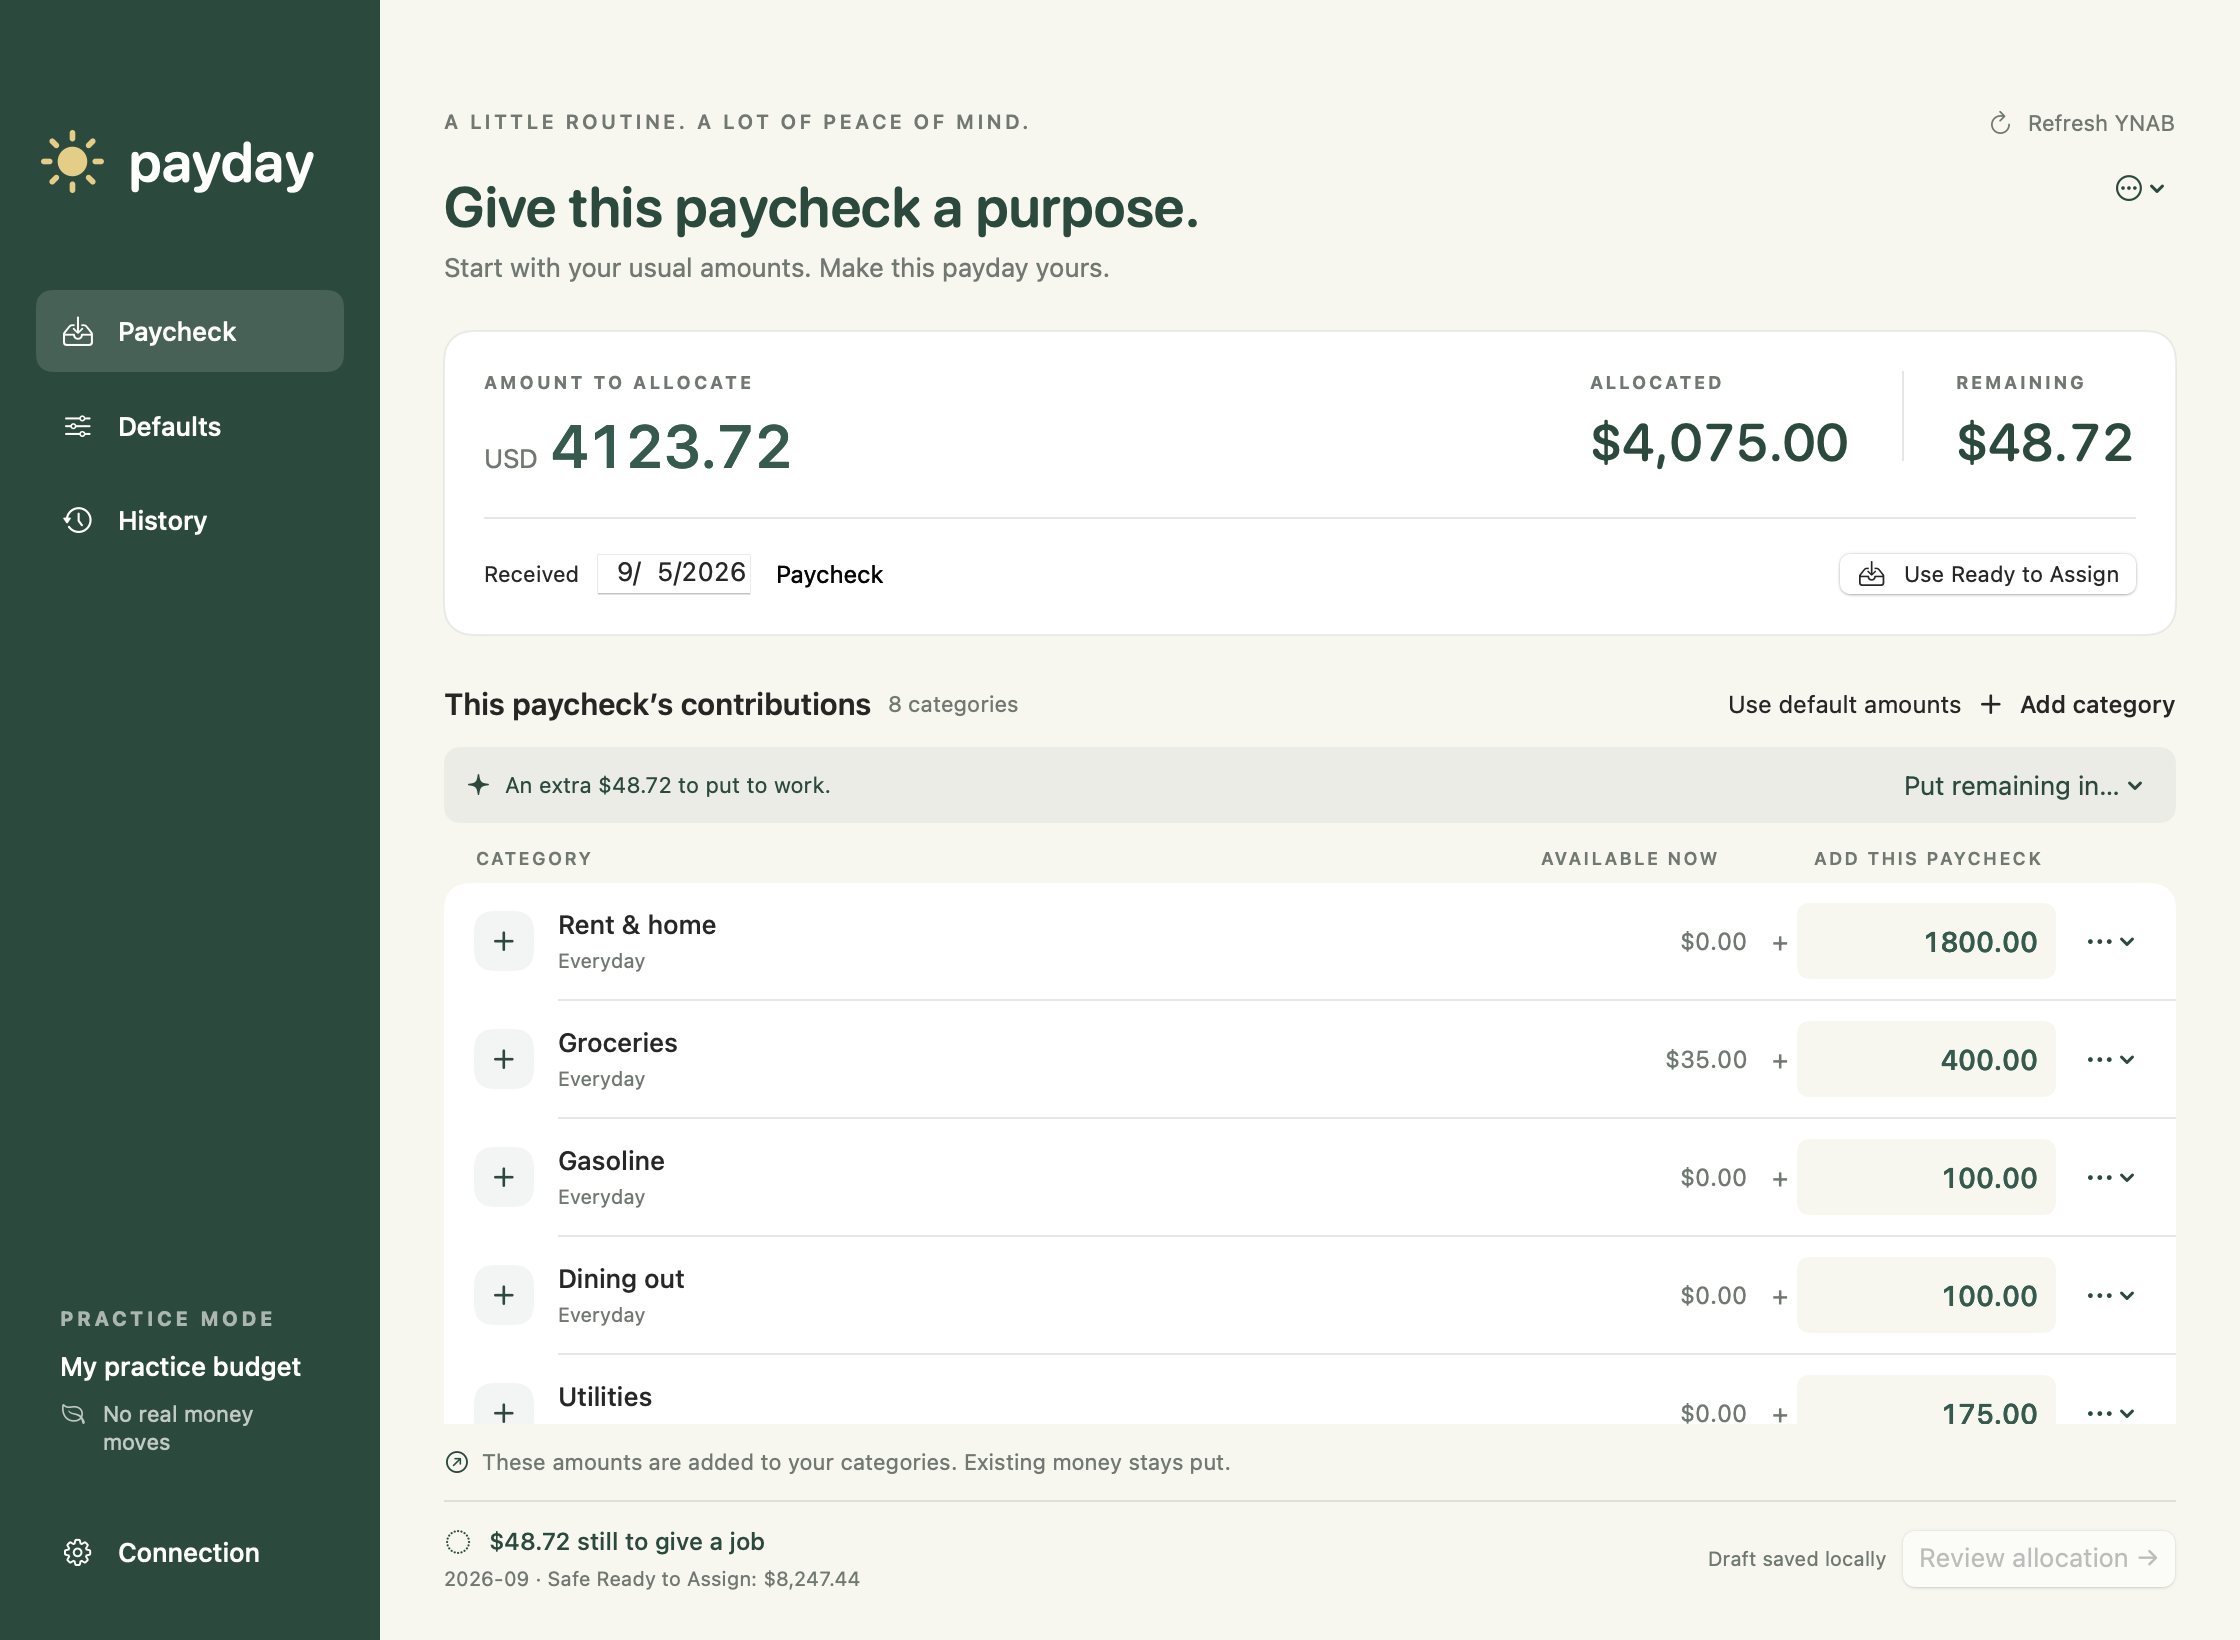
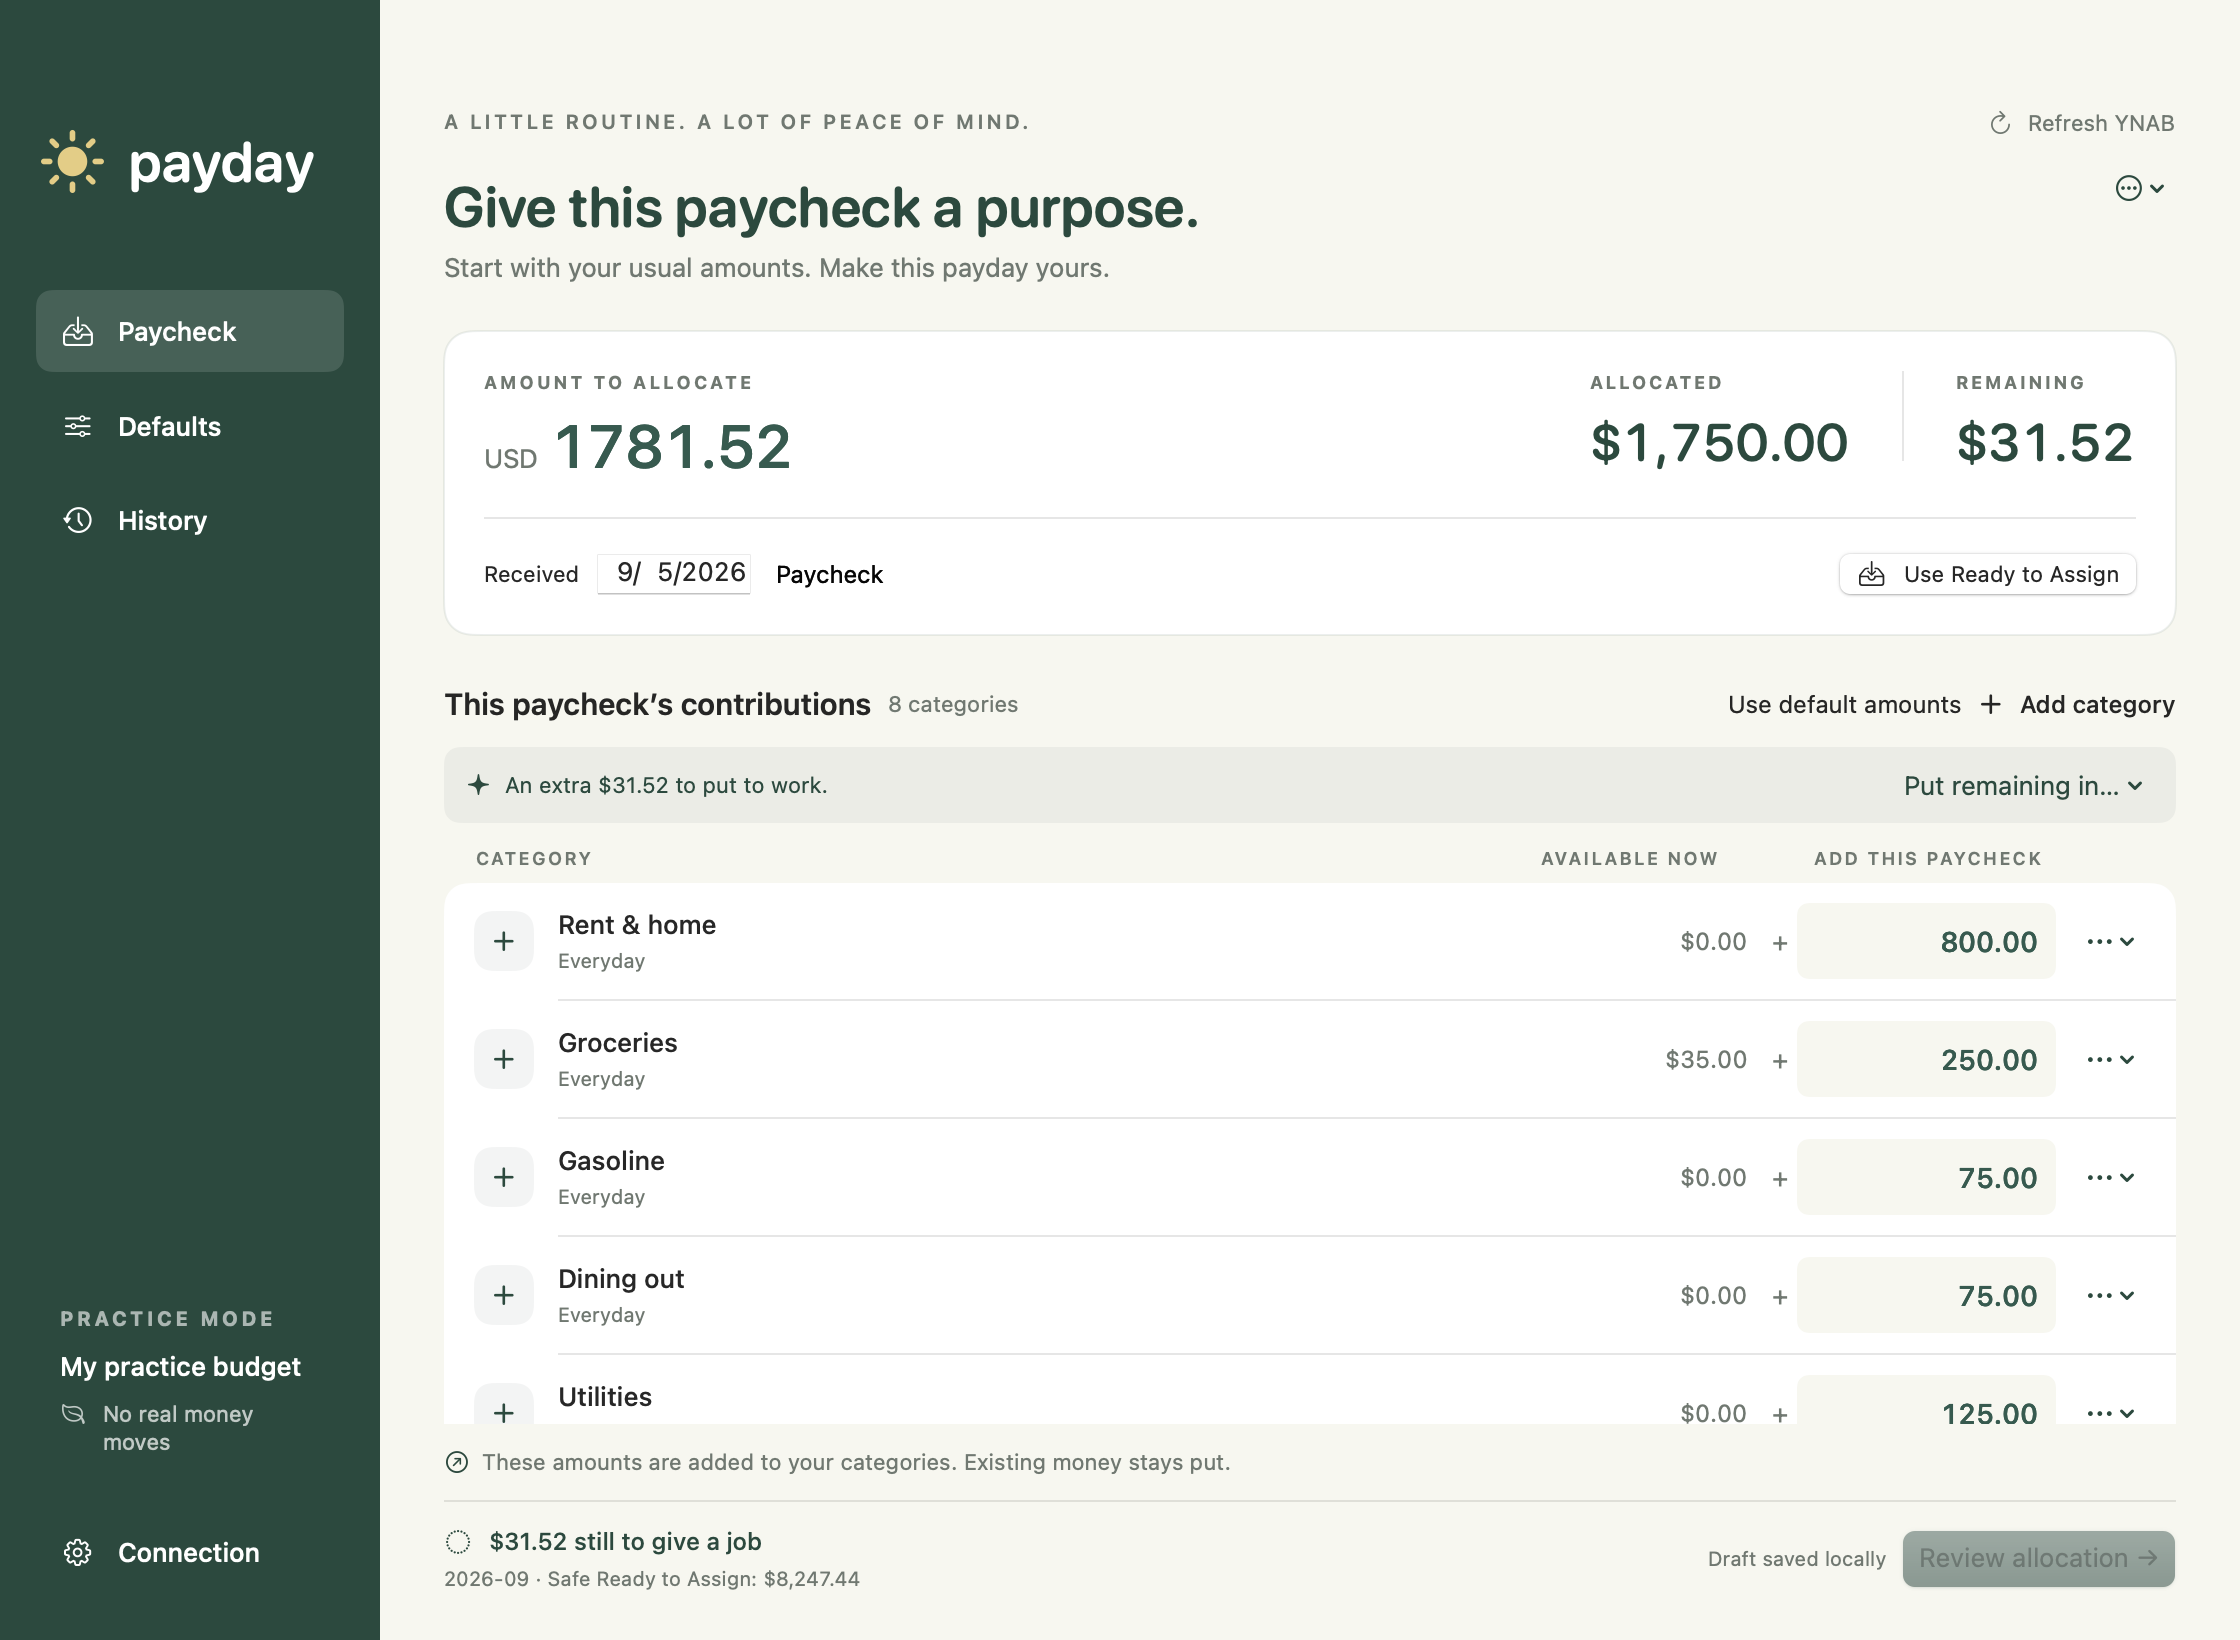
Prepare public launch with updated screenshot and required coverage checks

diff --git a/scripts/check-coverage.py b/scripts/check-coverage.py
@@ -1,0 +1,100 @@
+#!/usr/bin/env python3
+"""Enforce LLVM line coverage without a hosted service or uploaded financial data."""
+import argparse
+import json
+from pathlib import Path
+import re
+import subprocess
+
+
+def executable_lines(segments):
+    """Map executable lines to their highest count, including multiline regions."""
+    result = {}
+    previous = None
+    for segment in segments:
+        line, column, count, has_count = segment[:4]
+        if previous is not None and previous[3]:
+            end = line if column > 1 else line - 1
+            for number in range(previous[0], end + 1):
+                result[number] = max(result.get(number, 0), previous[2])
+        if has_count:
+            result[line] = max(result.get(line, 0), count)
+        previous = segment
+    return result
+
+
+def changed_lines(diff):
+    result = {}
+    path = None
+    for line in diff.splitlines():
+        if line.startswith('+++ b/'):
+            path = line[6:]
+        elif line.startswith('+++ '):
+            path = None
+        elif path and line.startswith('@@ '):
+            match = re.search(r'\+(\d+)(?:,(\d+))? @@', line)
+            if match:
+                start = int(match[1])
+                count = int(match[2]) if match[2] is not None else 1
+                result.setdefault(path, set()).update(range(start, start + count))
+    return result
+
+
+def measured(path):
+    return path.startswith('Sources/PaydayCore/') or path in {
+        'Sources/Payday/AppModel.swift', 'Sources/Payday/CentsTextField.swift'
+    }
+
+
+def main():
+    parser = argparse.ArgumentParser(description=__doc__)
+    parser.add_argument('report')
+    parser.add_argument('--base', help='PR base commit; compare its merge base with HEAD')
+    args = parser.parse_args()
+    root = Path(subprocess.check_output(['git', 'rev-parse', '--show-toplevel'], text=True).strip())
+    files = {}
+    for data in json.loads(Path(args.report).read_text())['data']:
+        for item in data['files']:
+            try:
+                path = str(Path(item['filename']).relative_to(root))
+            except ValueError:
+                continue
+            files[path] = item
+    failures = []
+
+    def require(label, covered, total, threshold):
+        if total == 0:
+            failures.append(f'{label}: no executable coverage data')
+            return
+        percentage = 100 * covered / total
+        print(f'{label}: {covered}/{total} lines ({percentage:.2f}%; minimum {threshold}%)')
+        if percentage < threshold:
+            failures.append(f'{label} is below {threshold}%')
+
+    core = [f['summary']['lines'] for p, f in files.items() if p.startswith('Sources/PaydayCore/')]
+    require('Financial core', sum(f['covered'] for f in core), sum(f['count'] for f in core), 90)
+    engine = files.get('Sources/PaydayCore/AllocationEngine.swift', {}).get('summary', {}).get('lines', {})
+    require('Allocation engine', engine.get('covered', 0), engine.get('count', 0), 95)
+    if args.base:
+        diff = subprocess.check_output(['git', 'diff', '--no-ext-diff', '--unified=0', f'{args.base}...HEAD', '--', 'Sources'], text=True)
+        covered = total = 0
+        for path, changed in changed_lines(diff).items():
+            if not measured(path) or not path.endswith('.swift') or not changed:
+                continue
+            if path not in files:
+                failures.append(f'{path}: changed source missing from coverage report')
+                continue
+            lines = executable_lines(files[path]['segments'])
+            affected = changed & lines.keys()
+            total += len(affected)
+            covered += sum(lines[line] > 0 for line in affected)
+        if total:
+            require('Changed executable lines', covered, total, 80)
+        else:
+            print('No changed executable lines in measured source.')
+    if failures:
+        raise SystemExit('\n'.join(failures))
+
+
+if __name__ == '__main__':
+    main()

diff --git a/scripts/test_coverage.py b/scripts/test_coverage.py
@@ -1,0 +1,35 @@
+"""Regression checks for the coverage gate's diff and LLVM interpretation."""
+import importlib.util
+from pathlib import Path
+import unittest
+
+spec = importlib.util.spec_from_file_location('coverage_gate', Path(__file__).with_name('check-coverage.py'))
+gate = importlib.util.module_from_spec(spec)
+spec.loader.exec_module(gate)
+
+
+class CoverageTests(unittest.TestCase):
+    def test_multiline_counts_stop_before_column_one(self):
+        self.assertEqual(gate.executable_lines([[2, 1, 3, True], [5, 1, 0, False]]), {2: 3, 3: 3, 4: 3})
+
+    def test_uncovered_regions_are_not_ignored(self):
+        self.assertEqual(gate.executable_lines([[2, 1, 0, True], [4, 1, 0, False]]), {2: 0, 3: 0})
+
+    def test_multiple_regions_on_same_line(self):
+        self.assertEqual(gate.executable_lines([[2, 1, 0, True], [2, 5, 4, True], [2, 8, 0, False]]), {2: 4})
+
+    def test_additions_deletions_and_multiple_hunks(self):
+        diff = '+++ b/Sources/A.swift\n@@ -1 +1,2 @@\n@@ -5 +6 @@\n@@ -8,2 +8,0 @@\n'
+        self.assertEqual(gate.changed_lines(diff), {'Sources/A.swift': {1, 2, 6}})
+
+    def test_deleted_file_has_no_new_lines(self):
+        self.assertEqual(gate.changed_lines('+++ /dev/null\n@@ -1 +0,0 @@'), {})
+
+    def test_scope_includes_new_core_and_testable_ui(self):
+        self.assertTrue(gate.measured('Sources/PaydayCore/NewFeature.swift'))
+        self.assertTrue(gate.measured('Sources/Payday/AppModel.swift'))
+        self.assertFalse(gate.measured('Sources/Payday/Views.swift'))
+
+
+if __name__ == '__main__':
+    unittest.main()

diff --git a/CONTRIBUTING.md b/CONTRIBUTING.md
@@ -50,3 +50,13 @@ Keep pull requests focused and explain the user-visible effect. Before requestin
 5. Call out any remaining ambiguity or behavior that could affect a real budget.
 
 Code should favor explicit domain names, small testable seams, and fail-closed behavior over convenience. Avoid adding dependencies unless their value clearly exceeds their privacy and supply-chain cost.
+
+## Required checks and review
+
+Every pull request must pass the `test-and-package` check: a warning-clean build, all existing Swift tests, coverage-policy tests, coverage thresholds, and app packaging. CI runs on every pull request without path filters. A PR must be up to date with `main` before merging.
+
+Run `swift test --enable-code-coverage`, then `python3 scripts/check-coverage.py "$(swift test --show-codecov-path)" --base origin/main` to check coverage locally. The financial core must maintain at least 90% line coverage, the allocation engine at least 95%, and changed executable lines in `PaydayCore`, `AppModel.swift`, and `CentsTextField.swift` at least 80%. New core source files automatically enter this policy. Coverage measures execution, not assertion quality: reviewers must still require meaningful behavioral and failure-path assertions.
+
+Declarative views, application startup, and Keychain adapters are outside the numeric coverage gate. Changes there require documented Practice Mode or platform verification and tests of any extracted logic; do not move financial logic into these files to avoid coverage.
+
+Anyone may propose a change through a fork and pull request. Rory McDaniel (`@rorymcdaniel`) is the sole code owner and approves contributor PRs; new commits dismiss prior approvals. Administrators can explicitly bypass the approval rule through a PR, allowing the owner to merge their own PRs because GitHub prohibits self-approval. GitHub cannot limit this bypass by PR authorship, so the exception is reserved by project policy for owner-authored PRs. A separate ruleset requires a PR, passing checks, and resolved review conversations even for administrators; direct/force pushes and branch deletion are blocked. Contributor PR workflows may require maintainer authorization to run under GitHub's fork security controls.

diff --git a/docs/open-source-readiness-audit.md b/docs/open-source-readiness-audit.md
@@ -1,5 +1,7 @@
 # Open-source readiness audit
 
+Publication update (2026-09-05): the owner authorized public source publication at `https://github.com/rorymcdaniel/payday`. The README screenshot now uses $1,781.52 with synthetic categories. CI enforces the coverage policy in `CONTRIBUTING.md`. Two independent `main` rulesets require PRs and passing checks without bypass, plus owner approval with an explicit administrator PR-only override for owner-authored changes. The assessment below records the original private-staging audit; binary release gates still apply.
+
 **Audited:** 2026-09-05
 
 **Target:** private GitHub staging repository, ready for a later deliberate public-source decision

diff --git a/README.md b/README.md
@@ -4,7 +4,7 @@ A small native Mac app for giving each paycheck a job in YNAB.
 
 Enter what you received, adjust your usual contributions, and confirm. Payday adds those contributions to your categories, preserving the money already there. It runs only while open, with no server, subscription, telemetry, or remote infrastructure.
 
-![Payday’s practice paycheck screen](docs/screenshots/paycheck-v1.1.png)
+![Payday’s practice paycheck screen showing $1,781.52 to allocate across synthetic categories](docs/screenshots/paycheck-v1.1.png)
 
 ## Run it
 
